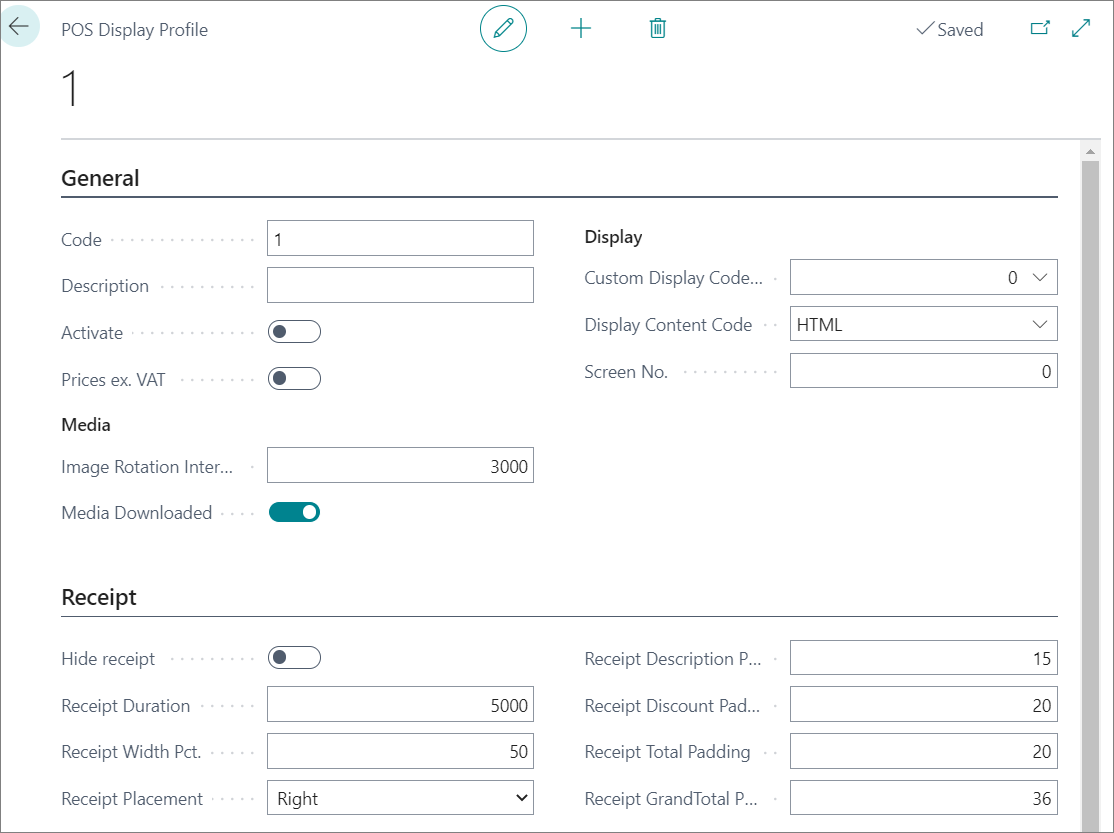
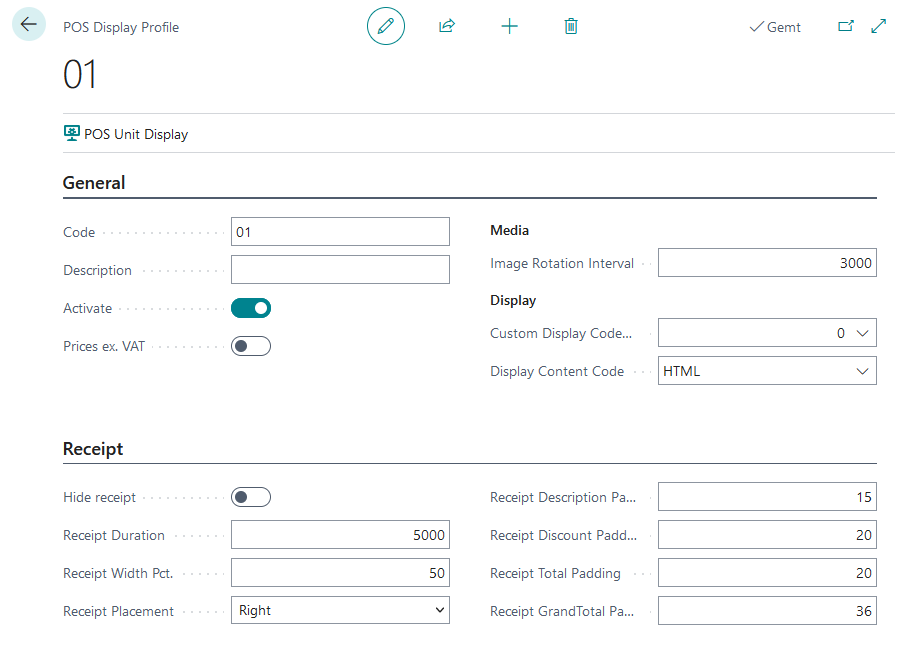
Merged PR 14973: POS Display Profile makeover
The POS Display Profile was wierd to configure since it required the POS Unit No. code and the POS Display Profile code to be the same, in order to work together. This meant that only 1 profile could match together with one POS Unit, ergo not reuseable. This has been changed so you need to select the profile in the POS Unit card page. Also the Screen number and Media downloaded fields are made obsolete in the POS Display Profile table (Display Setup), and have their own table where they can be configured (POS Unit Display). This way device specific information is not part of the generic profile anymore.

Related work items: #7968

diff --git a/Documentation/public/retail/posunit/reference/POS_Display_profile.md b/Documentation/public/retail/posunit/reference/POS_Display_profile.md
@@ -10,10 +10,8 @@ Each POS unit can have a different display view. The following fields can be set
 | **Activate**  |  Activate the POS Display Profile on the customer display. |
 | **Price ex. VAT** | Specifies whether the prices are visible without the VAT on the POS. |
 | **Image Rotation Interval** |  Specifies the time-delay between the images (the number of milliseconds during which an image is displayed). |
-| **Media Downloaded** | Specifies whether the media from **Display Content Code** should be downloaded. If checked, the POS won't download any media when loaded, and it will not check whether the local cache contains the images in the **Display Content Code** group. Instead, it will download and replace all, or do nothing. When adding new media to the **Display Content Code**, you need to deactivate this field to see the new media.|
 | **Custom Display Codeunit** |  Specifies the customized codeunit used for out-of-the-box functionality. Adding a Codeunit ID here will expand on the base functionality and/or set the usage or limitations that could override the existing fields. If using a **Custom Display Codeunit**, read the documentation on that Codeunit. |
 | **Display Content Code** | Specifies the **Display Content Code** group that will be used for this POS Display Profile. Display Content Codes are groupings of either images, videos, or URLs. This is where the media displayed on the customer display is uploaded or linked to. |
-| **Screen No.** | Specifies the Windows display number that will be used. *0* is default, and will auto-select a non-main display. It is recommended to leave it on *0* unless the POS unit has more than 2 screens. |
 | **Hide Receipt** | Remove the receipt from the customer display. |
 | **Receipt Duration** | Specifies the number of milliseconds during which an receipt remains on-screen. |
 | **Receipt Width** | Specifies the width of the whole receipt on the Customer Display. |
@@ -28,4 +26,3 @@ Each POS unit can have a different display view. The following fields can be set
 Once the POS Display Profile is defined, you can set it on the POS unit of your choice by adding the predefined POS Display Profile in the **POS Display Profile** field.
 
 ![POS_unit_dis](../images/POS_display1.png)
-

diff --git a/Documentation/public/retail/posunit/howto/POSCustomerDisplay.md b/Documentation/public/retail/posunit/howto/POSCustomerDisplay.md
@@ -24,10 +24,17 @@ You can set up the content of customer display in **Display Setup**. Here, it is
 5. Click the dropdown next to the **Display Content Code**, and then click the **Select from full list** button.
 5. From the page **Select - Display Content**, you click on the **Content Line** field on the far right to open another page called **Display Content Lines**.
 6. Click **New** to input a URL or to upload an image. Add more lines for a slideshow of images.
-7. Go back to the **POS Display Profile** and enable the field **Activate** to enable the customer displays of POS Units with this **POS Display Profile**.
+7. Go back to the **POS Display Profile** and enable the field **Activate** to enable the customer display of POS Units with using this **POS Display Profile**.
 
 > [!NOTE]
 > The fields in the panel **Receipt** are used to customize the display of sales lines to the customer.
+
+> [!NOTE]
+> If the customer display is blank, try pressing **Alt + Tab** to check if the window is displayed in the background.
+> If the Custommer display is displayed on the wrong screen or if the new media content is not showing, go to **POS Unit Display** and update information. See [POS Unit Display](../reference/POS_Unit_Display.md).
+
+> [!WARNING]
+> Remember to restart the POS when updating either **POS Display Profile** or **POS Unit Display**.
 
 ### Related links
 
@@ -36,3 +43,4 @@ You can set up the content of customer display in **Display Setup**. Here, it is
 - [Configure an opening mechanism for a POS unit cash drawer](./ConfigureCashDrawerOpening.md)
 - [POS menu](../explanation/POS_menu.md)
 - [POS Display Profile](../reference/POS_Display_profile.md)
+- [POS Unit Display](../reference/POS_Unit_Display.md)

diff --git a/Documentation/public/retail/posunit/reference/POS_Unit_Display.md b/Documentation/public/retail/posunit/reference/POS_Unit_Display.md
@@ -1,0 +1,14 @@
+# POS Unit Display (reference guide)
+
+In the **POS Unit Display** you can configure device-specific information for the **POS Display Profile**. For example, the **POS Display Profile** specifies what a theme looks like, whereas **POS Unit Display** specifies if the device bound to the **POS Unit No.** has downloaded the media and on which connected screen it will be displayed.
+
+| Field Name      | Description |
+| ----------- | ----------- |
+| **POS Unit No.**       | The unique code for the POS Unit that is beeing configured.   |
+| **Media Downloaded**   | Specifies whether the media from **Display Content Code** in **POS Display Profile** should be downloaded. If checked, the POS won't download any media when loaded, and it will not check whether the local cache contains the images in the **Display Content Code** group. Instead, it will download and replace all, or do nothing. When adding new media to the **Display Content Code**, you need to deactivate this field to see the new media.       |
+| **Screen No.**  | Specifies on which screen connected to the POS Unit, the costummer display should be displayed on. *0* is default, and will auto-select a non-main display. It is recommended to leave it on *0* unless the POS unit has more than 2 screens. |
+
+### Related links
+
+- [POS unit](../explanation/POSUnit.md)
+- [POS Display Profile (reference guide)](./POS_Display_profile.md)

diff --git a/Documentation/public/retail/posunit/intro.md b/Documentation/public/retail/posunit/intro.md
@@ -17,6 +17,7 @@ POS units are a central part of the POS sales solution. They consist of hardware
 - [Change the POS unit receipt footer text](howto/POSUnitReceiptFooter.md)
 - [POS audit profile](reference/POS_audit_profile.md)
 - [POS display profile](reference/POS_Display_profile.md)
+- [POS Unit Display](reference/POS_Unit_Display.md)
 - [POS end-of-day profile](reference/POS_End_of_Day_Profile.md)
 - [POS input box profile](explanation/POS_input_box_profile.md)
 - [POS Posting Setup](explanation/POS_posting_setup.md)
